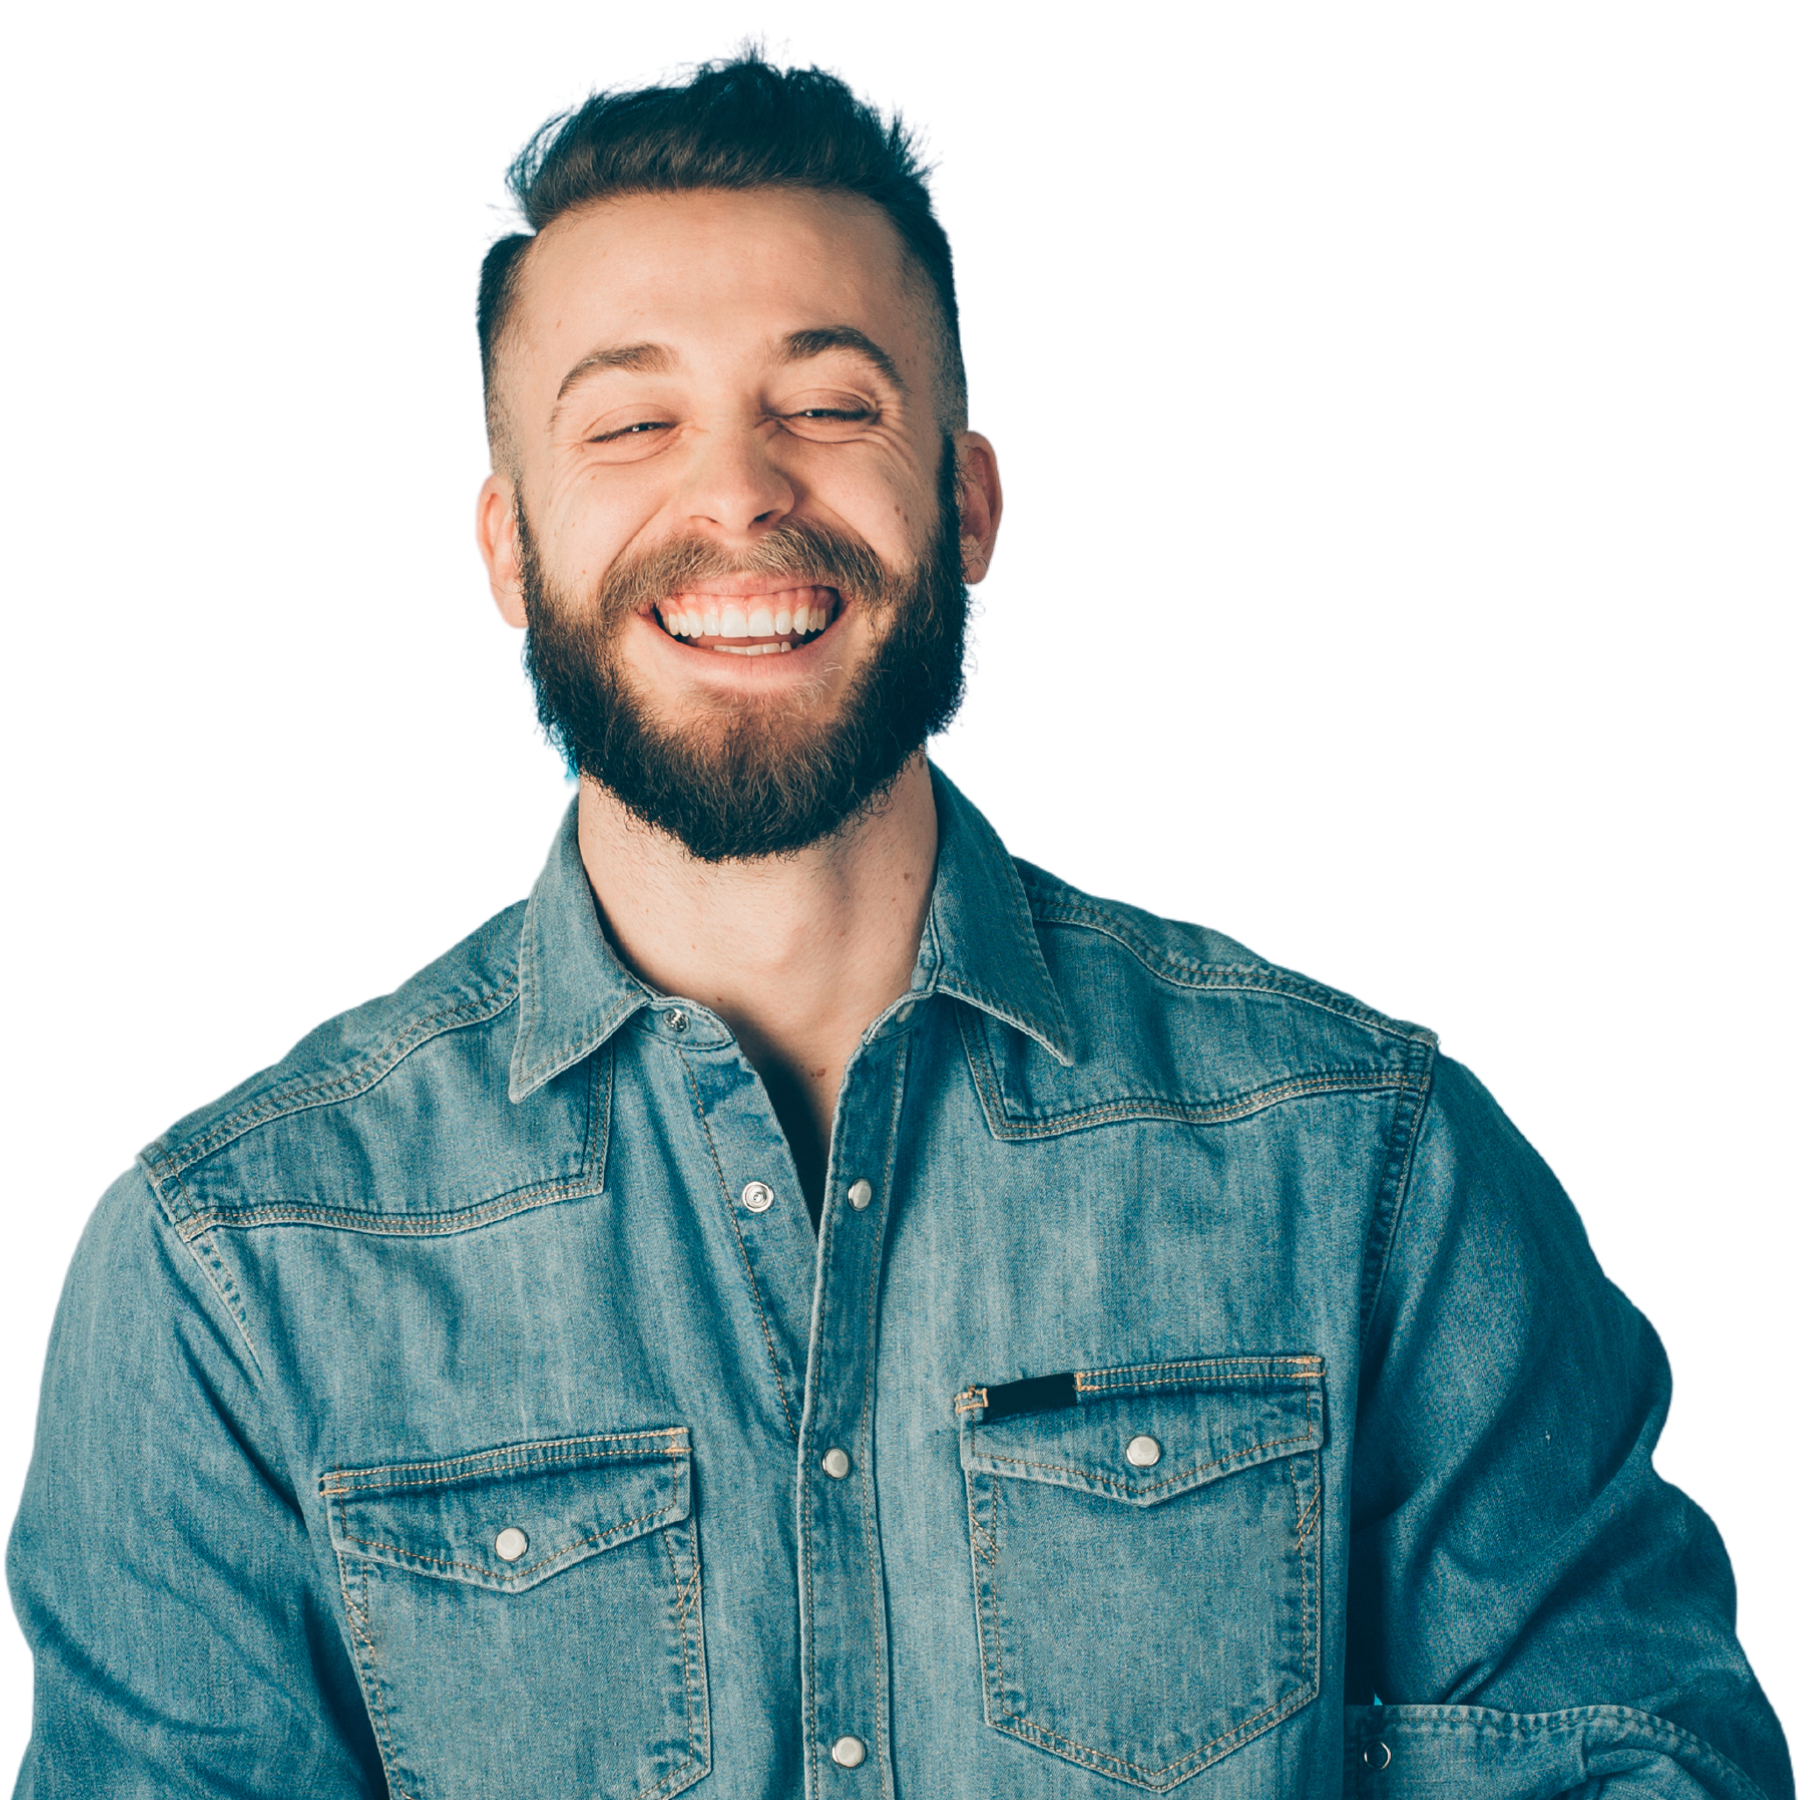
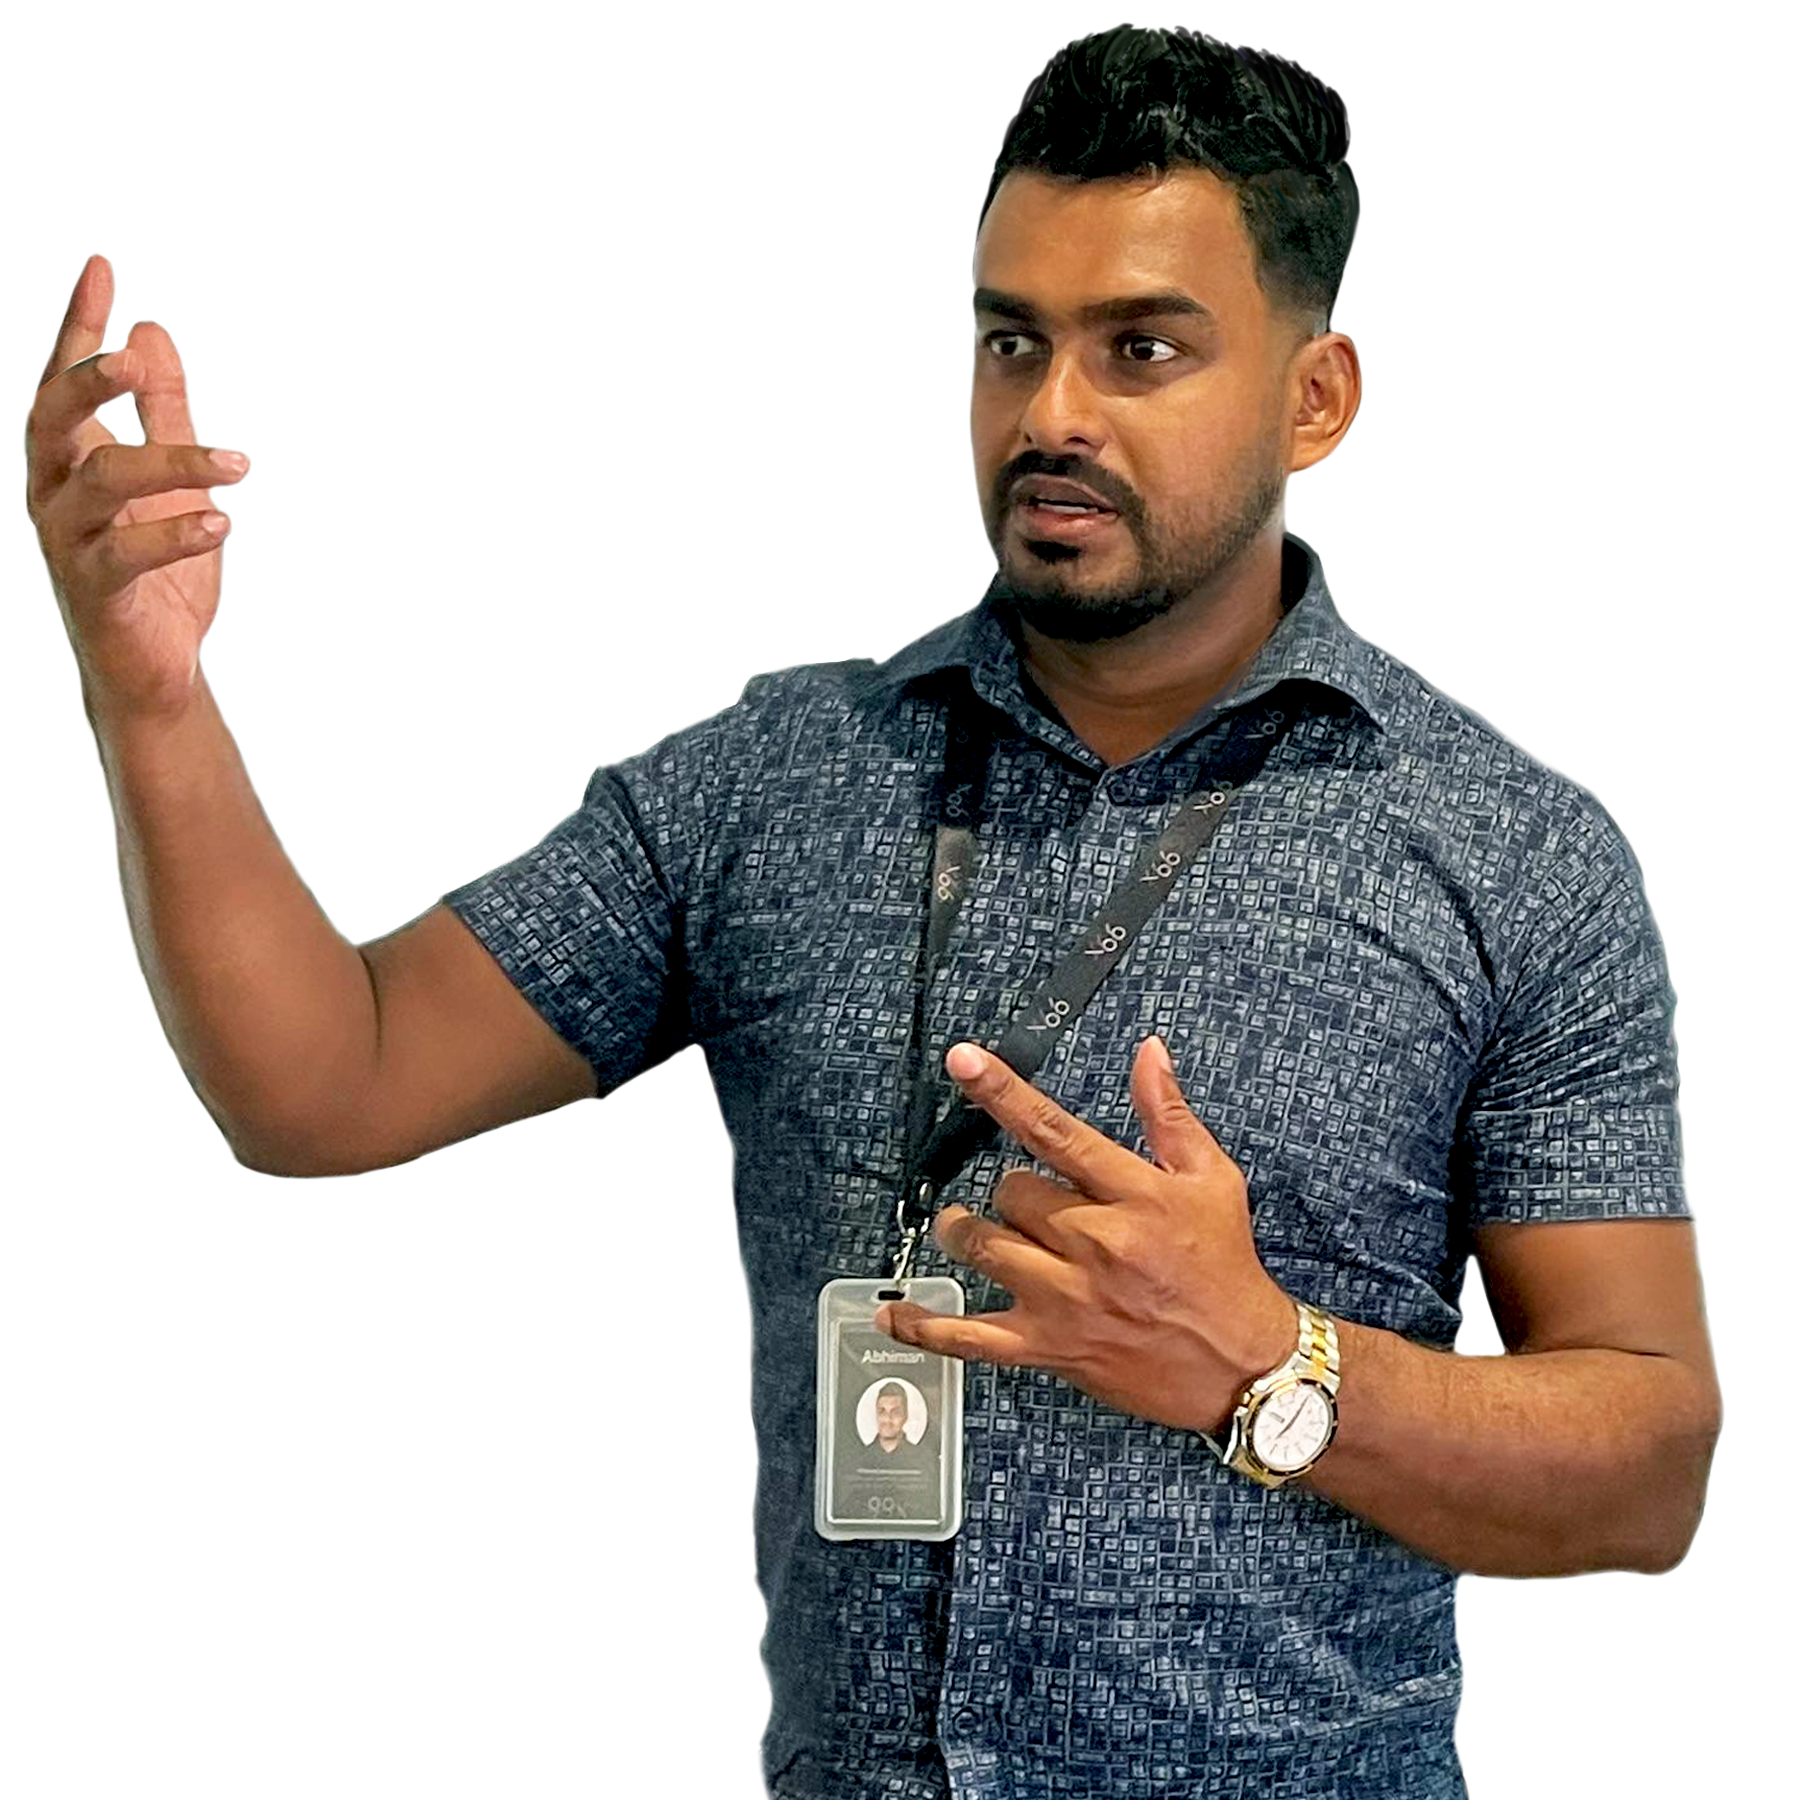
feat: hero section modifications

diff --git a/src/index.css b/src/index.css
@@ -5,7 +5,6 @@
 }
 
 html {
-  scroll-snap-type: y mandatory;
   scroll-behavior: smooth;
 }
 
@@ -49,6 +48,8 @@ body {
     Oxygen, Ubuntu, Cantarell, "Open Sans", "Helvetica Neue", sans-serif;
   min-height: 100vh;
   overflow-x: hidden;
+  margin: 0;
+  padding: 0;
   transition: background 0.3s ease, color 0.3s ease;
 }
 
@@ -61,20 +62,31 @@ a {
   max-width: 1536px;
   padding-left: 16px;
   padding-right: 16px;
-  padding-top: 90px;
+  padding-top: 0;
   margin-left: auto;
   margin-right: auto;
+  margin-top: 0;
 }
 
 section {
+  min-height: 100vh;
   height: 100vh;
-  scroll-snap-align: center;
   padding-top: 20px;
+  box-sizing: border-box;
+  position: relative;
 }
 
-/* First section needs extra top padding to account for navigation */
+/* First section needs extra top padding to account for navigation height (70px) */
 section:first-of-type {
-  padding-top: 40px;
+  padding-top: 110px; /* 70px for nav + 40px extra spacing */
+  margin-top: 0;
+  position: relative;
+  top: 0;
+}
+
+/* Ensure sections take full viewport height */
+section:not(:first-of-type) {
+  margin-top: 0;
 }
 
 @media (min-width: 640px) {

diff --git a/src/components/hero/Hero.jsx b/src/components/hero/Hero.jsx
@@ -48,7 +48,7 @@ const Hero = () => {
         >
           Hey There,
           <br />
-          <span>I'm Robert!</span>
+          <span>I'm Abhiman!</span>
         </motion.h1>
         {/* AWARDS */}
         <motion.div
@@ -57,9 +57,9 @@ const Hero = () => {
           animate="animate"
           className="awards"
         >
-          <motion.h2 variants={awardVariants}>Top Rated Designer</motion.h2>
+          <motion.h2 variants={awardVariants}>Senior Technical Lead @ 99x</motion.h2>
           <motion.p variants={awardVariants}>
-            Lorem ipsum dolor sit amet, consectetur adipisicing elit.
+          Seasoned Frontend Developer | Front-end Development Pro | Micro Frontend, React, Redux, TypeScript Expert
           </motion.p>
           <motion.div variants={awardVariants} className="awardList">
             <motion.img variants={awardVariants} src="/award1.png" alt="" />

diff --git a/src/components/hero/Speech.jsx b/src/components/hero/Speech.jsx
@@ -12,13 +12,16 @@ const Speech = () => {
         <TypeAnimation
           sequence={[
             1000,
-            "Same substring at the start will only be typed out once, initially",
+            "I’m a seasoned Frontend Engineer with technical expertise and creative flair, specializing in React.",
             1000,
-            "Lorem ipsum dolor sit amet lerinat consectetur adipisicing. ",
+            "I’m an expert at Micro Frontends, component libraries, and developing complex, high-quality UIs.",
+            1000,
+            ,
+            "I'm a Technical Writer and AWS enthusiast, with a passion for AI and cloud technologies.",
             1000,
           ]}
           wrapper="span"
-          speed={40}
+          speed={60}
           deletionSpeed={60}
           // omitDeletionAnimation
           repeat={Infinity}

diff --git a/src/components/navigation/Navigation.jsx b/src/components/navigation/Navigation.jsx
@@ -44,7 +44,7 @@ const Navigation = () => {
     <nav className="navigation">
       <div className="nav-container">
         <div className="nav-brand">
-          <span>AbhiMax</span>
+          <span>Abhiman Ranaweera</span>
         </div>
         <ul className="nav-links">
           {navItems.map((item) => (

diff --git a/src/components/hero/hero.css b/src/components/hero/hero.css
@@ -131,7 +131,7 @@
 
 .bubble {
   width: 100%;
-  height: 100px;
+  height: 124px;
   background-color: var(--card-bg);
   color: var(--text-primary);
   padding: 24px;
